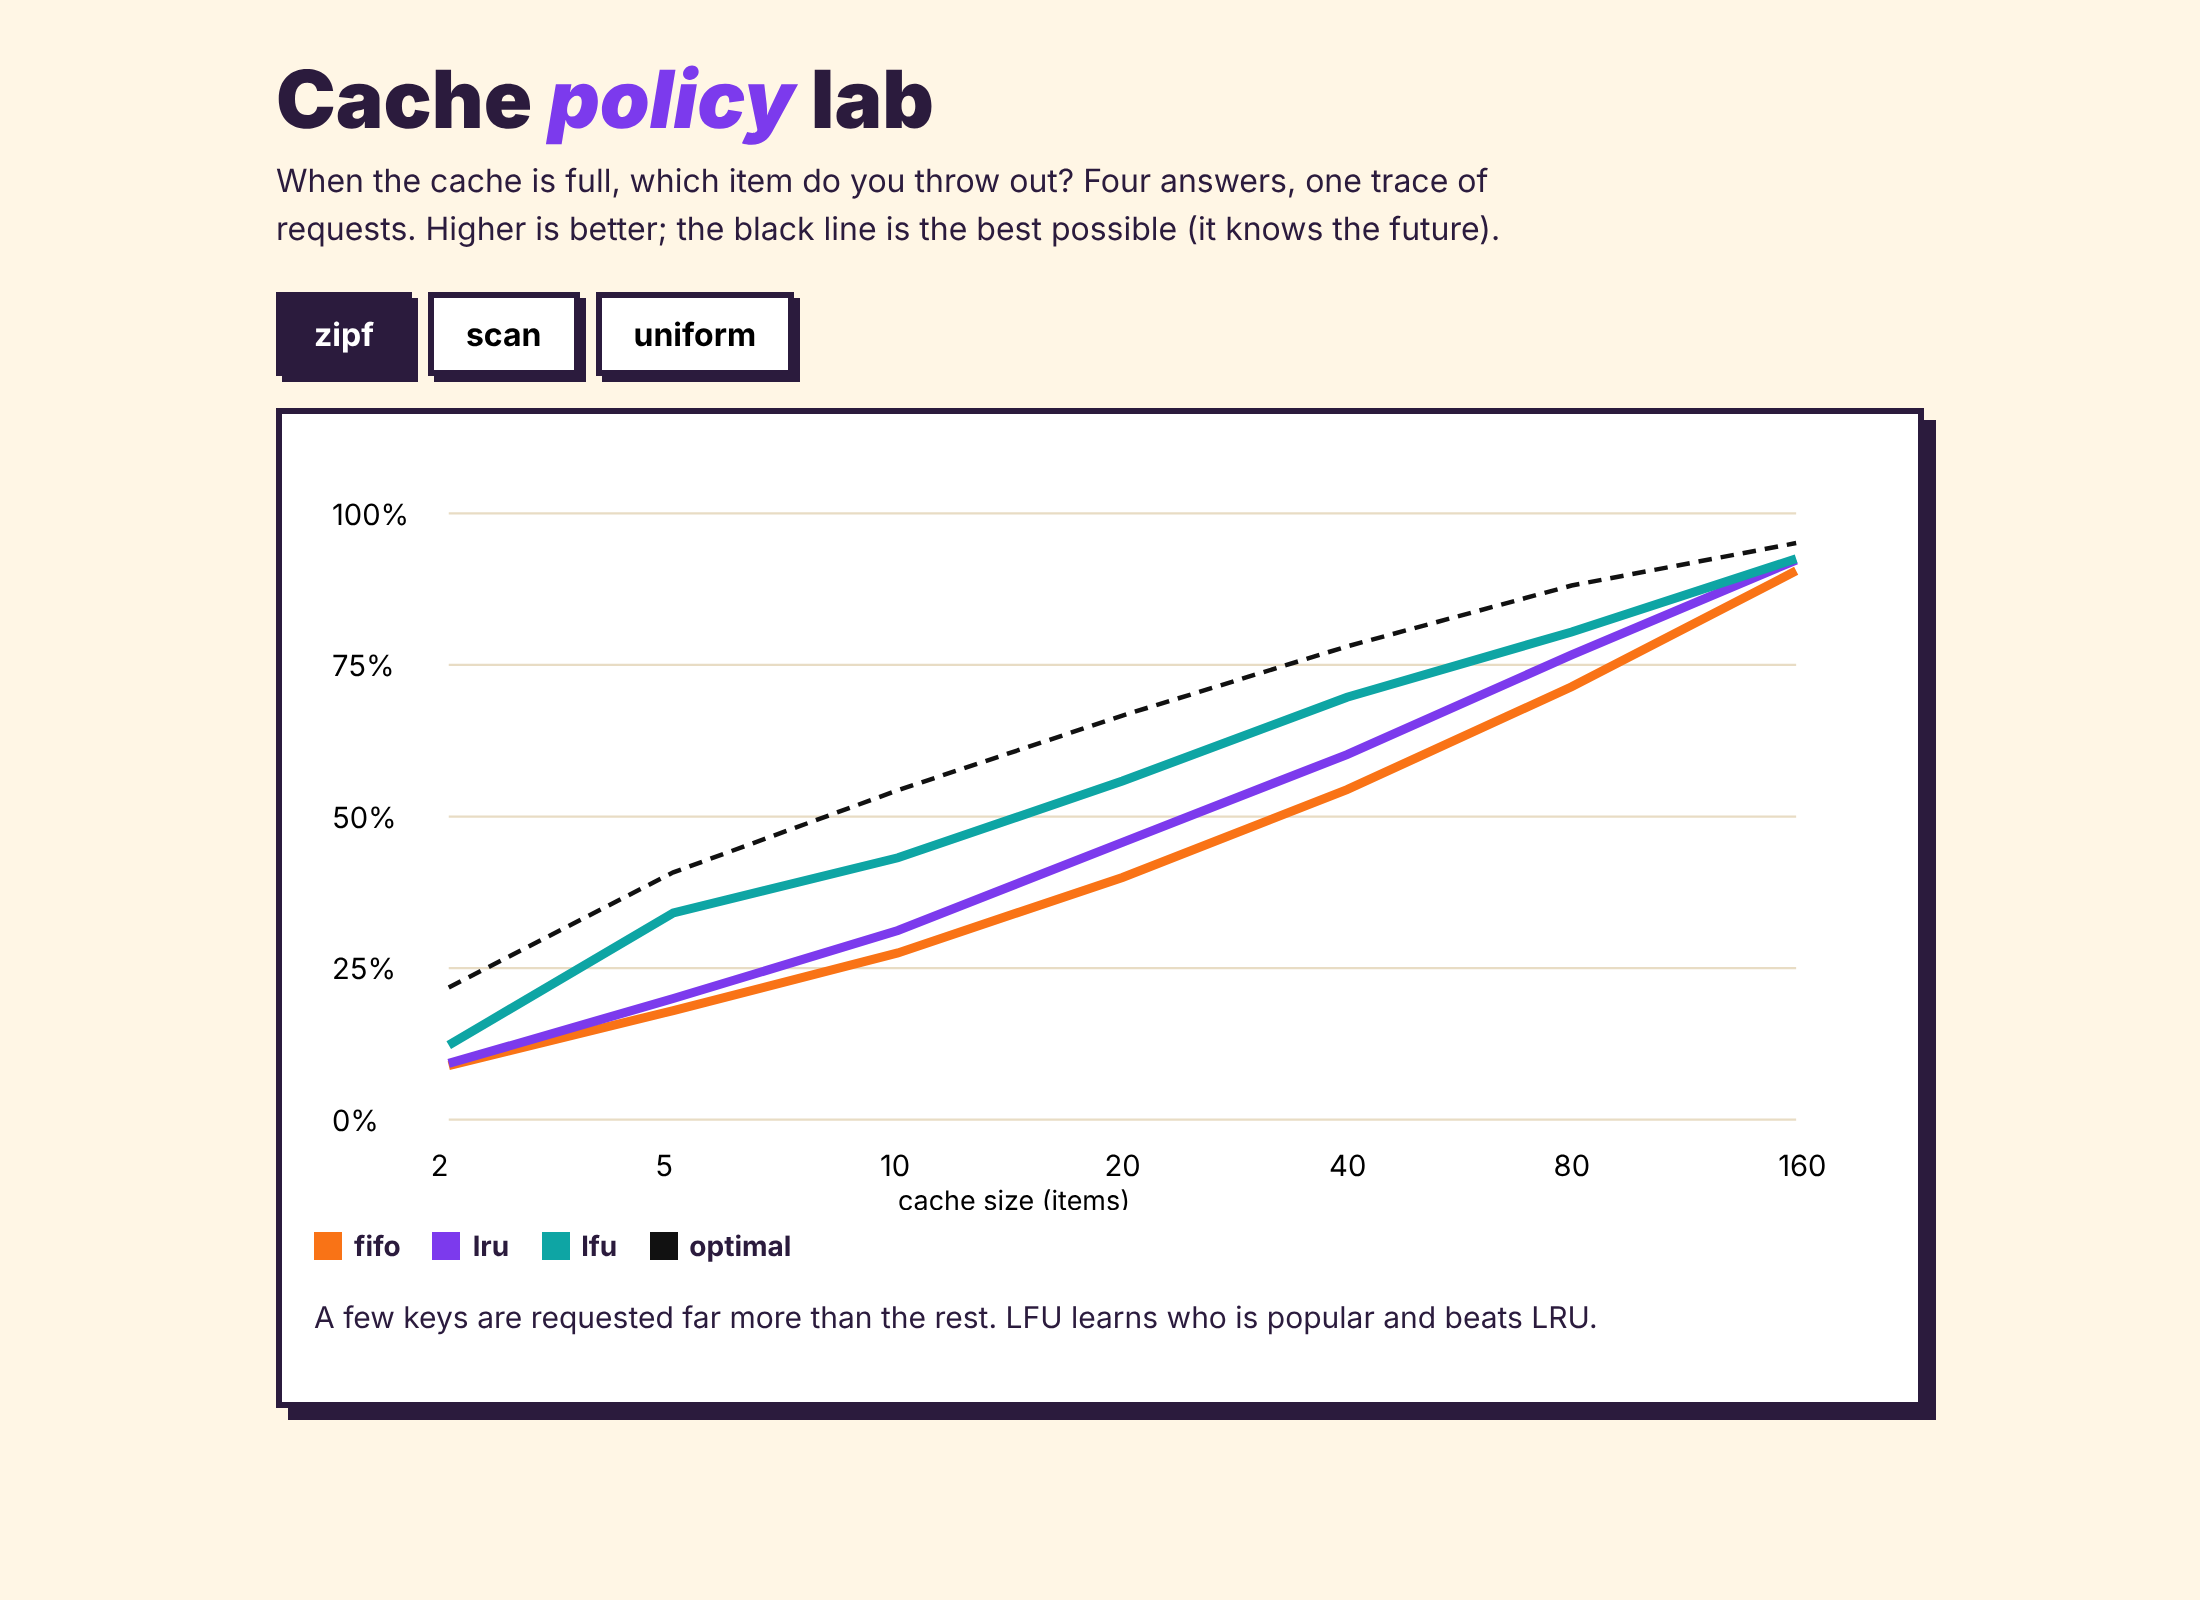
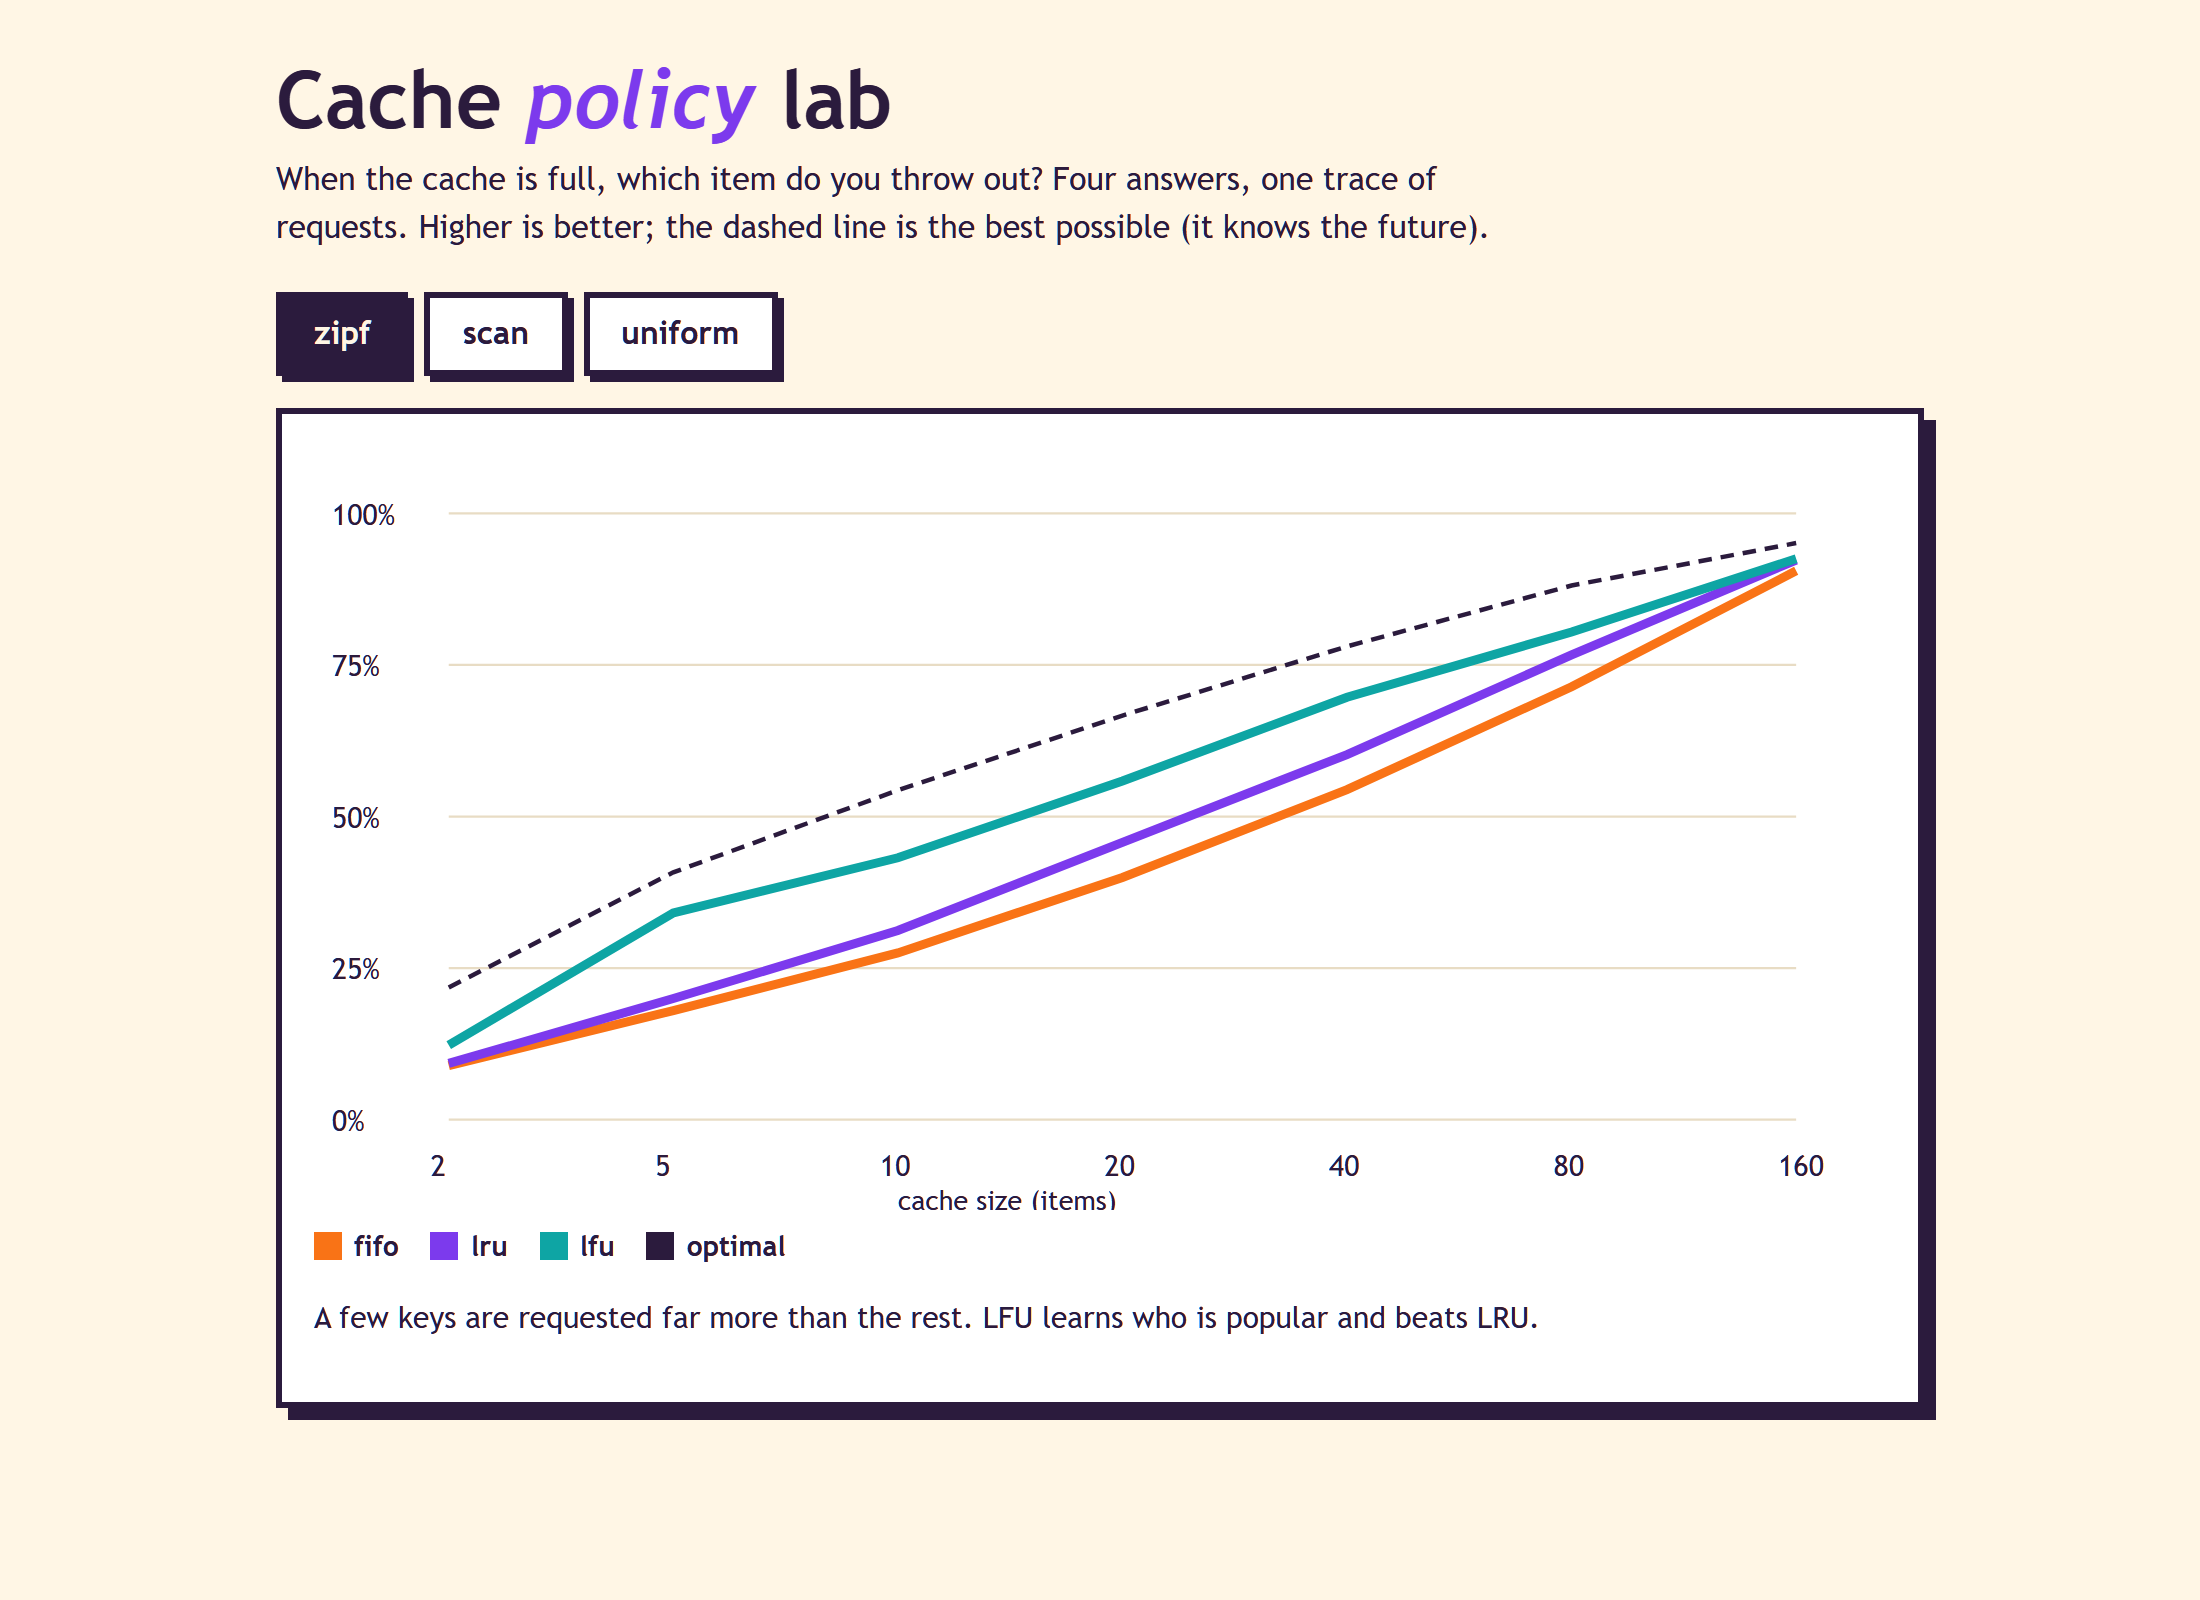
Update cache-policy-lab in catalog
Replaces the catalog snapshot of cache-policy-lab with its current branch state.

diff --git a/projects/cache-policy-lab/static/index.html b/projects/cache-policy-lab/static/index.html
@@ -1,28 +1,33 @@
 <!doctype html><html lang="en"><head><meta charset="utf-8"><meta name="viewport" content="width=device-width,initial-scale=1">
 <title>Cache Policy Lab</title>
 <style>
-:root{--bg:#fff6e5;--ink:#2b1b3d;--a:#7c3aed;--b:#0ea5a4;--c:#f97316;--d:#111}
+:root{--bg:#fff6e5;--ink:#2b1b3d;--a:#7c3aed;--b:#0ea5a4;--c:#f97316;--d:#111;--card:#fff;--grid:#e8dcc4}
+@media (prefers-color-scheme: dark){:root{--bg:#1a1420;--ink:#f5ecff;--card:#2a2233;--grid:#3a3044}}
 *{box-sizing:border-box}body{margin:0;background:var(--bg);color:var(--ink);font:16px/1.5 "Trebuchet MS","Segoe UI",sans-serif}
 main{max-width:860px;margin:0 auto;padding:30px 18px}h1{font-size:40px;line-height:1;margin:0;font-weight:900}h1 em{color:var(--a)}.sub{margin:8px 0 20px;max-width:620px}
-.tabs{display:flex;gap:8px;margin-bottom:16px}button{font:inherit;font-weight:700;border:3px solid var(--ink);background:#fff;padding:6px 16px;cursor:pointer;box-shadow:3px 3px 0 var(--ink)}button.on{background:var(--ink);color:#fff}
-.card{background:#fff;border:3px solid var(--ink);padding:16px;box-shadow:6px 6px 0 var(--ink)}svg{width:100%;height:auto;display:block}
+.tabs{display:flex;gap:8px;margin-bottom:16px}button{font:inherit;font-weight:700;border:3px solid var(--ink);background:var(--card);color:var(--ink);padding:6px 16px;cursor:pointer;box-shadow:3px 3px 0 var(--ink)}button.on{background:var(--ink);color:var(--bg)}
+.card{background:var(--card);border:3px solid var(--ink);padding:16px;box-shadow:6px 6px 0 var(--ink)}svg{width:100%;height:auto;display:block;color:var(--ink)}svg text{fill:var(--ink)}.grid{stroke:var(--grid)}
 .leg{display:flex;gap:16px;flex-wrap:wrap;margin-top:8px;font-weight:700;font-size:14px}.leg i{display:inline-block;width:14px;height:14px;margin-right:6px;vertical-align:-2px}
 .say{margin-top:14px;font-size:15px}
 </style></head><body><main>
-<h1>Cache <em>policy</em> lab</h1><p class="sub">When the cache is full, which item do you throw out? Four answers, one trace of requests. Higher is better; the black line is the best possible (it knows the future).</p>
+<h1>Cache <em>policy</em> lab</h1><p class="sub">When the cache is full, which item do you throw out? Four answers, one trace of requests. Higher is better; the dashed line is the best possible (it knows the future).</p>
 <div class="tabs" id="tabs"></div><div class="card"><svg id="s" viewBox="0 0 700 340"></svg><div class="leg" id="leg"></div><p class="say" id="say"></p></div>
 </main><script>
-const $=i=>document.getElementById(i);let kind='zipf';
-const col={fifo:'#f97316',lru:'#7c3aed',lfu:'#0ea5a4',optimal:'#111'};
+const $=i=>document.getElementById(i);let kind='zipf',seq=0;
+const col={fifo:'#f97316',lru:'#7c3aed',lfu:'#0ea5a4',optimal:'currentColor'};
 const say={zipf:'A few keys are requested far more than the rest. LFU learns who is popular and beats LRU.',uniform:'Every key is equally likely, so no policy can beat chance. Only knowing the future helps.',scan:'A hot set is repeatedly interrupted by one-off sweeps. LRU lets the sweep flush the hot keys; LFU does not.'};
-async function load(){const j=await (await fetch('/curve?kind='+kind)).json();
-document.querySelectorAll('#tabs button').forEach(b=>b.classList.toggle('on',b.dataset.k===kind));
+async function load(){const my=++seq;
+try{
+const j=await (await fetch('/curve?kind='+kind)).json();
+if(my!==seq)return;
+document.querySelectorAll('#tabs button').forEach(b=>{const on=b.dataset.k===kind;b.classList.toggle('on',on);b.setAttribute('aria-pressed',String(on))});
 const X=i=>60+i*(600/(j.sizes.length-1)),Y=v=>300-v*270;let h='';
-for(let g=0;g<=4;g++){h+=`<line x1="60" x2="660" y1="${Y(g/4)}" y2="${Y(g/4)}" stroke="#e8dcc4"/><text x="8" y="${Y(g/4)+5}" font-size="13">${g*25}%</text>`}
+for(let g=0;g<=4;g++){h+=`<line class="grid" x1="60" x2="660" y1="${Y(g/4)}" y2="${Y(g/4)}"/><text x="8" y="${Y(g/4)+5}" font-size="13">${g*25}%</text>`}
 j.sizes.forEach((s,i)=>h+=`<text x="${X(i)-8}" y="325" font-size="13">${s}</text>`);
 h+='<text x="260" y="340" font-size="12">cache size (items)</text>';
 Object.entries(j.curves).forEach(([p,v])=>{h+=`<polyline fill="none" stroke="${col[p]}" stroke-width="${p==='optimal'?2:4}" ${p==='optimal'?'stroke-dasharray="6 4"':''} points="${v.map((y,i)=>X(i)+','+Y(y)).join(' ')}"/>`});
-$('s').innerHTML=h;$('leg').innerHTML=Object.keys(col).map(p=>`<span><i style="background:${col[p]}"></i>${p}</span>`).join('');$('say').textContent=say[kind]}
-$('tabs').innerHTML=['zipf','scan','uniform'].map(k=>`<button data-k="${k}">${k}</button>`).join('');
+$('s').innerHTML=h;$('leg').innerHTML=Object.keys(col).map(p=>`<span><i style="background:${col[p]}"></i>${p}</span>`).join('');$('say').textContent=say[kind];
+}catch(e){if(my===seq)$('say').textContent='Could not load this trace. Try another tab.'}}
+$('tabs').innerHTML=['zipf','scan','uniform'].map(k=>`<button data-k="${k}" aria-pressed="false">${k}</button>`).join('');
 $('tabs').onclick=e=>{if(e.target.dataset.k){kind=e.target.dataset.k;load()}};load();
 </script></body></html>

diff --git a/projects/cache-policy-lab/tests/test_all.py b/projects/cache-policy-lab/tests/test_all.py
@@ -83,3 +83,19 @@ def test_api():
     j = c.get("/curve", params={"kind": "scan"}).json()
     assert len(j["sizes"]) == 7 and set(j["curves"]) == {"fifo", "lru", "lfu", "optimal"}
     assert c.get("/curve", params={"kind": "x"}).status_code == 422 and c.get("/").status_code == 200
+
+
+def test_index_guards_stale_responses():
+    assert "const my=++seq" in c.get("/").text
+
+
+def test_index_has_error_text():
+    assert "Could not load this trace" in c.get("/").text
+
+
+def test_index_has_dark_scheme():
+    assert "prefers-color-scheme: dark" in c.get("/").text
+
+
+def test_intro_does_not_say_black_line():
+    assert "black line" not in c.get("/").text
